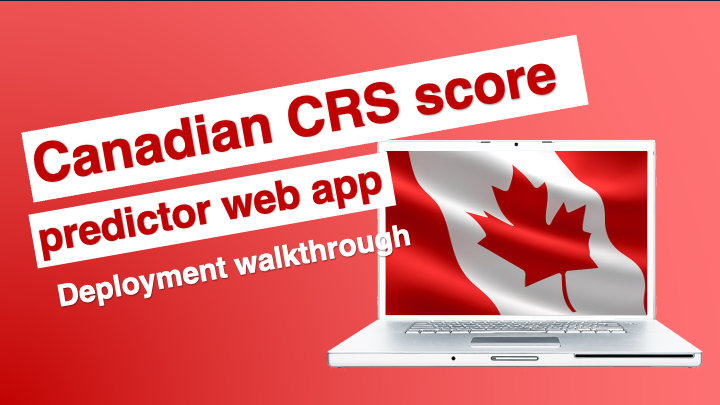
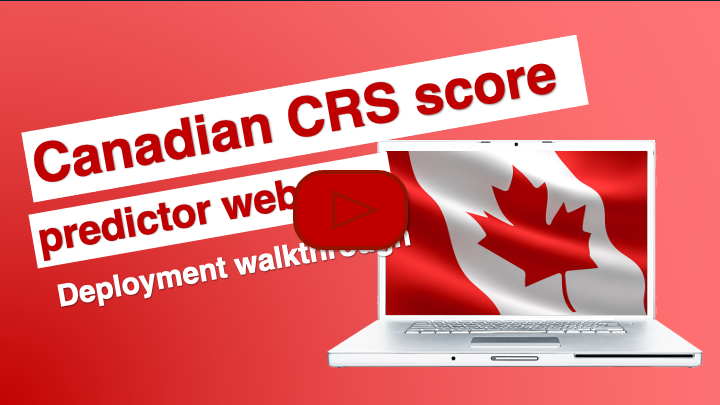
docs(README): fixed isue with thumbnail

Changed region(s): [[0.3972, 0.4148, 0.5806, 0.6222]]

diff --git a/README.md b/README.md
@@ -1,12 +1,11 @@
 # CRS Canada immigration cutoff score analysis
 
 ## Video walkthrough
+Watch the video below:
+
 <a href="https://www.youtube.com/watch?v=-GvjjPpuepY">
   <img src="imagedocs/thumbnail.png" />
 </a>
-
-[![Watch the video](https://img.youtube.com/vi/-GvjjPpuepY/maxresdefault.jpg)](https://www.youtube.com/watch?v=-GvjjPpuepY)
-
 
 ## Overview
 This project consists of an application that predicts future cutoff scores for the Comprehensive Ranking System (CRS) that Canada uses to grant permanent residence invitations.
